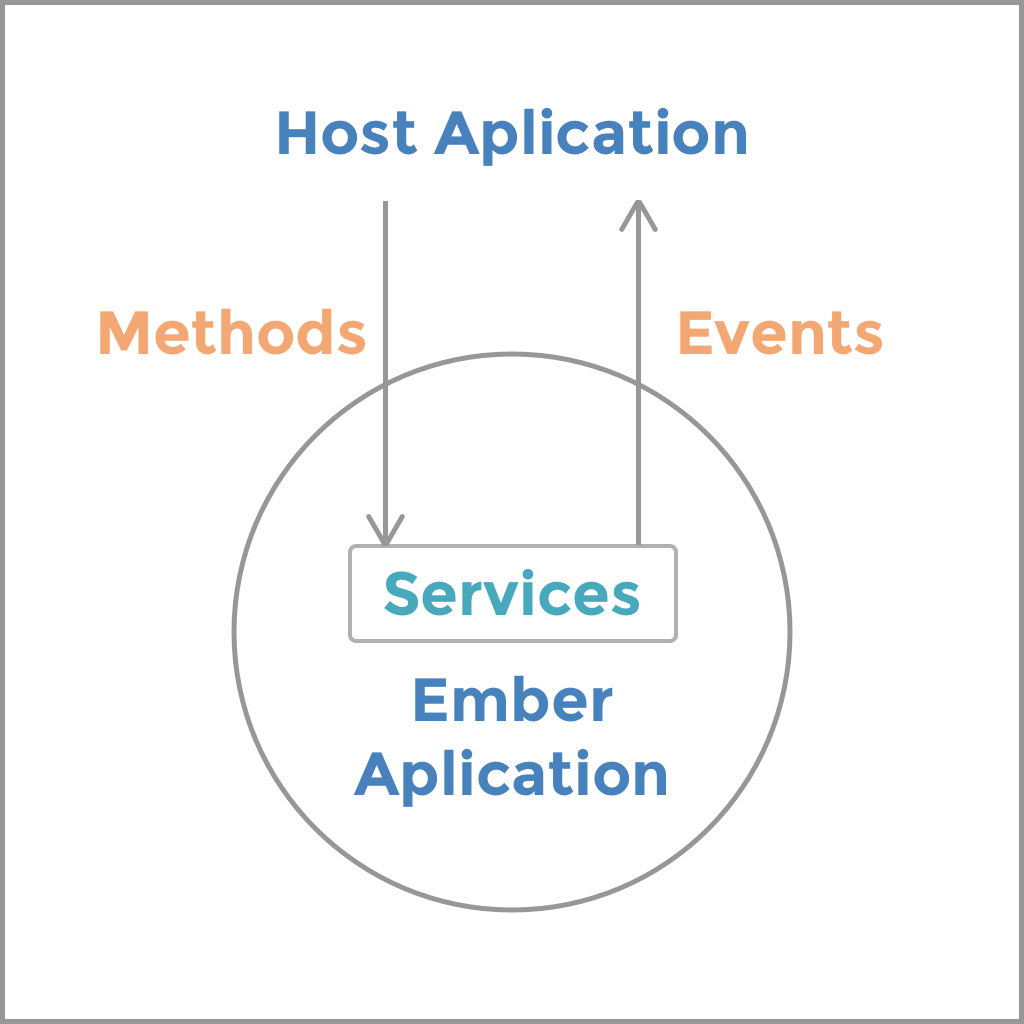
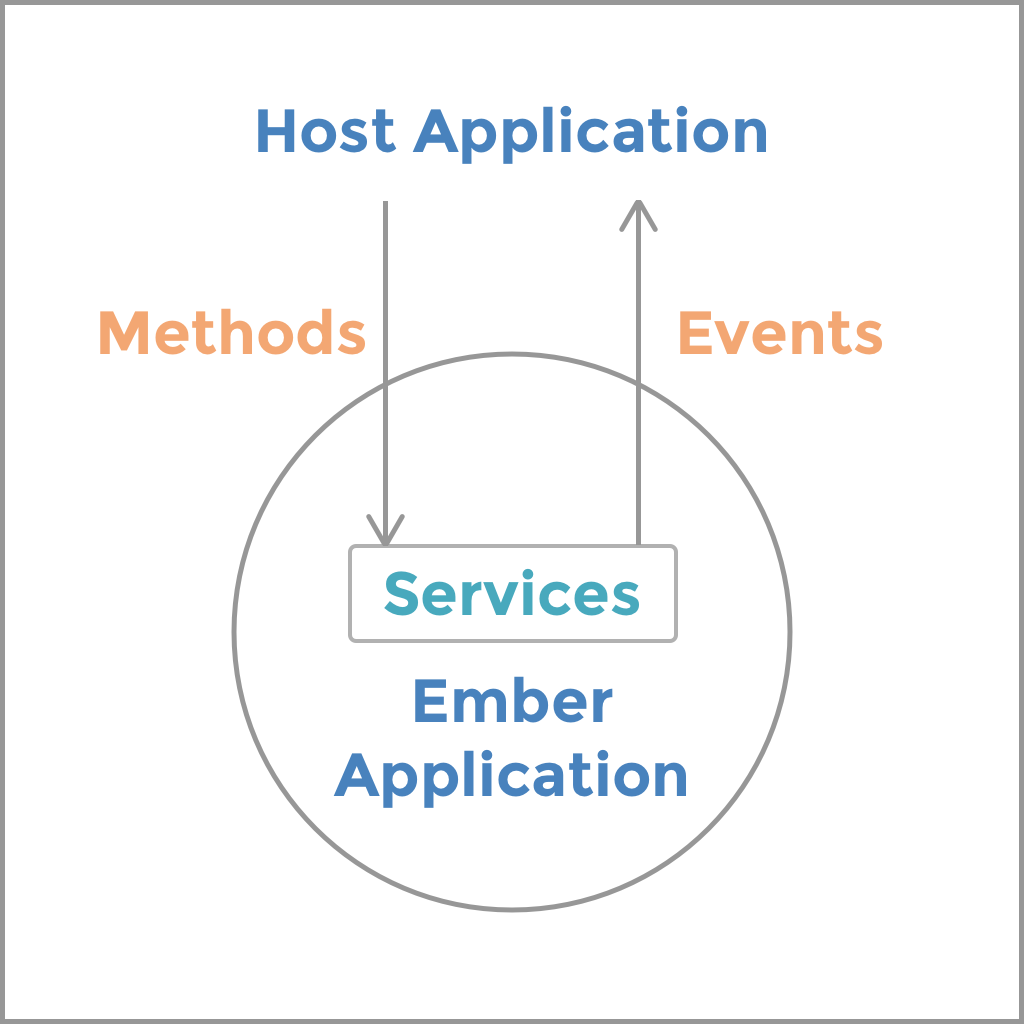
Fixes typos, rename consid. into topics, and title styling in DDAU

Changed region(s): [[0.25, 0.0938, 0.75, 0.1562], [0.3125, 0.6562, 0.6875, 0.8125], [0.4062, 0.6562, 0.4375, 0.6875]]

diff --git a/style.css b/style.css
@@ -193,4 +193,10 @@ img {
   width: 250px;
   background: transparent; }
 
+.top_title > h2:first-child {
+  position: absolute;
+  top: 1rem;
+  left: 0;
+  right: 0; }
+
 /*# sourceMappingURL=style.css.map */

diff --git a/scss/style.scss b/scss/style.scss
@@ -184,3 +184,10 @@ img {
   width: 250px;
   background: transparent;
 }
+
+.top_title > h2:first-child {
+  position: absolute;
+  top: 1rem;;
+  left: 0;
+  right: 0;
+}

diff --git a/slides.md b/slides.md
@@ -43,7 +43,7 @@ class: middle, factory
 class: middle, park
 
 ## In the real world
-# you just can't
+# You just can't
 # start over
 
 ???
@@ -101,16 +101,17 @@ class: middle, dinos
 
 class: middle, factory2
 
-# Towards <br>an easier life
+# Key topics
+### for your migration
 
 ???
-1. Some considerations for an easier integration
+1. Some topics for an easier integration
 1. What part of the app will we migrate first?
 2. How to properly bootstrap the app?
 3. What's the communication workflow?
 4. How to integrate the build process?
 
-* Biggest consideration: Smooth transition
+* Biggest topic: Smooth transition
 * Move fast, don't break
 * Don't break things
 
@@ -118,7 +119,7 @@ class: middle, factory2
 
 class: middle, factory2
 
-## Consideration no 1
+## topic no 1
 # Integration strategies
 
 ???
@@ -186,7 +187,7 @@ class: middle, factory2
 
 class: middle, factory2
 
-## Consideration no 2
+## topic no 2
 # Bootstrapping
 
 ???
@@ -291,7 +292,7 @@ class: middle, factory2
 
 class: middle, factory2
 
-## Consideration no 3
+## topic no 3
 # Communication
 
 ???
@@ -303,7 +304,7 @@ class: middle, factory2
 
 ---
 
-class: middle, factory2
+class: middle, factory2, top_title
 
 ## Data Down, Actions Up
 
@@ -319,7 +320,7 @@ class: middle, factory2
 
 ---
 
-class: middle, factory2
+class: middle, factory2, top_title
 
 ## Actions Up with  events
 
@@ -354,7 +355,7 @@ theApp.on('updateFacets', reloadDataTable);
 
 ---
 
-class: middle, factory2
+class: middle, factory2, top_title
 
 ## Data down with a public API
 
@@ -385,7 +386,7 @@ theApp.resetFacets().then(showFlashMessage);
 
 class: middle, factory2
 
-## Consideration no 4
+## topic no 4
 # Build process
 
 ---
@@ -393,7 +394,7 @@ class: middle, factory2
 class: middle, center, factory2
 
 # Automation<br>is hard
-### Watch your content hooks
+### Watch your content hooks in ember-cli
 
 ???
 
